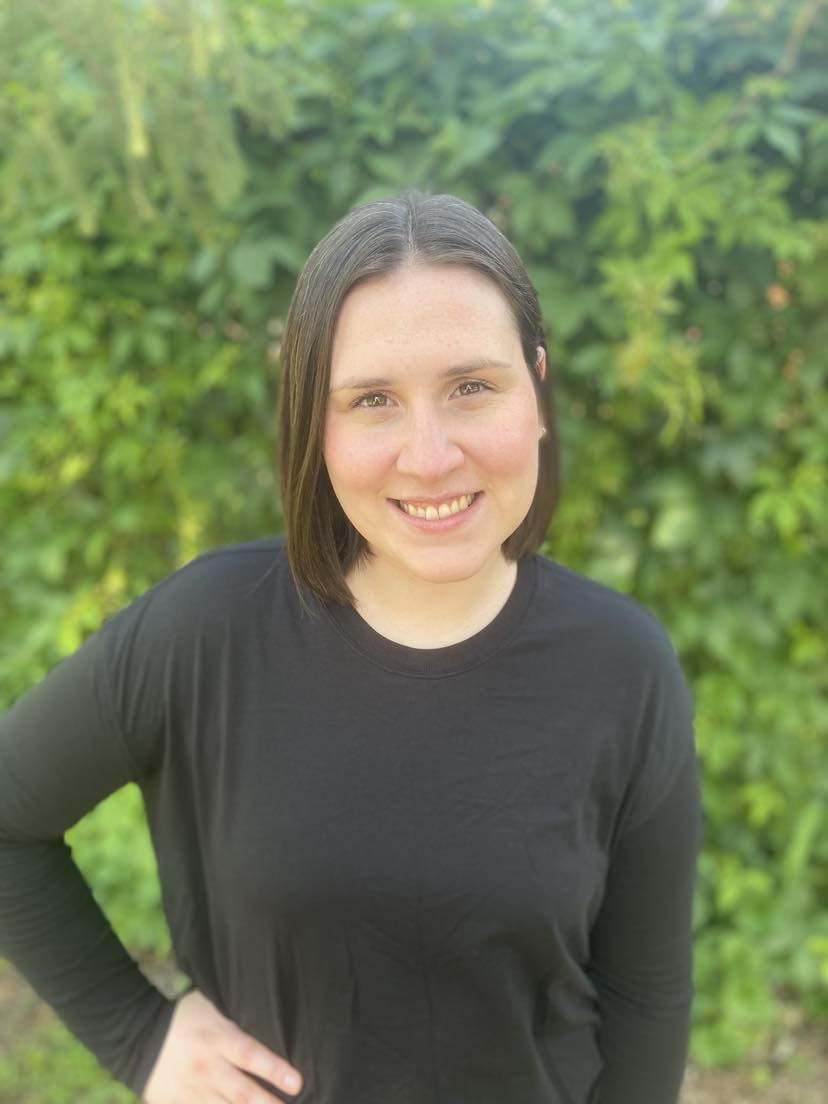
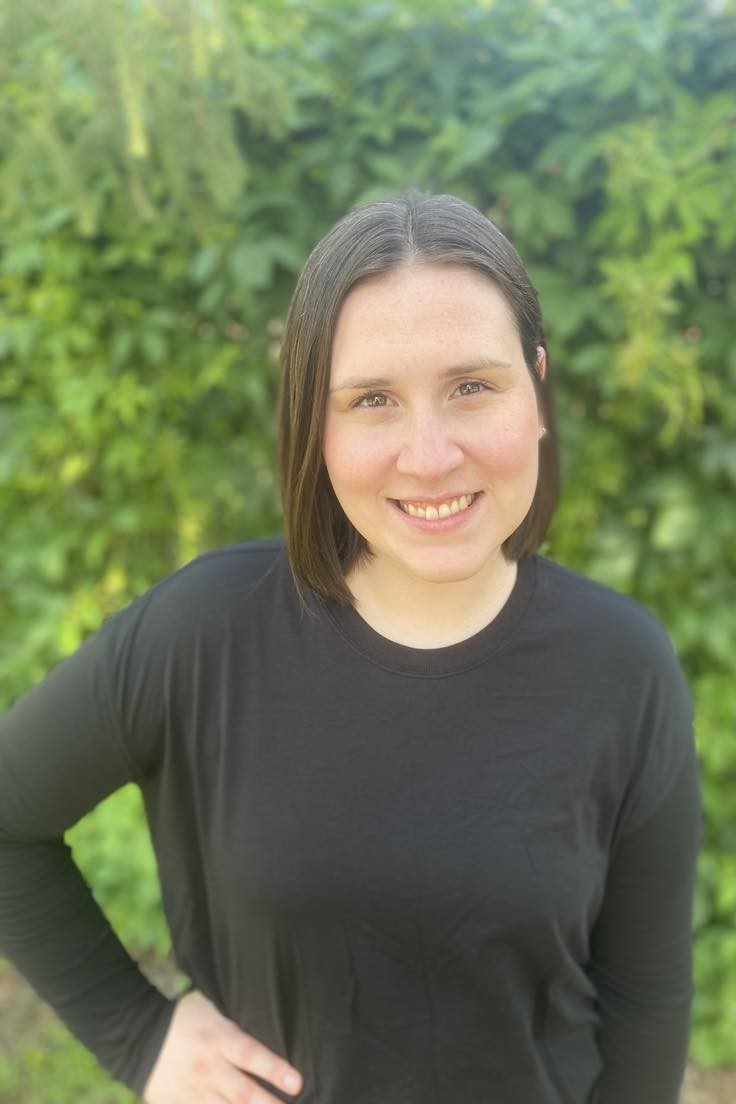
BC - made 'about' pictures all the same size

diff --git a/CSS/style.css b/CSS/style.css
@@ -74,7 +74,7 @@ a {
         float: right;
         display: block;
     }
-
+    
     /* topnav styles if the topnav has the "responsive" class - set when the user clicks on the hamburger menu*/
     .topnav.responsive {position: relative;}
     .topnav.responsive .icon {
@@ -394,7 +394,7 @@ table {
     font-weight: bold;
 }
 
- /*Project Page - Main Settings */ 
+/*Project Page - Main Settings */ 
 .pDash {
     max-width: 40%;
     float: right; 
@@ -455,8 +455,8 @@ iframe {
 }
 
 .static1 {
-   max-width:20%;
-   padding:40px;
+    max-width:20%;
+    padding:40px;
 }*/
 
 /* Project page margins */
@@ -495,7 +495,7 @@ iframe {
     display: flex;
     justify-content: space-evenly;
 }
-  
+
 .btn1 {
     border: none;
     outline: none;
@@ -506,15 +506,15 @@ iframe {
     cursor: pointer;
     margin: 20px auto;
 }
-  
+
 .btn:hover {
     background: #556471;
 }
-  
+
 .btn1:hover {
     background: #556471;
 }
-  
+
 .big-headings {
     background-color: #e3e4e4;
     /* Padding (there are a few options, saved here in case we change our minds later) */
@@ -561,7 +561,7 @@ p.project-page {
     height: auto;
     max-height: 525px;
     max-width: 350px;
-	border-radius: 50%
+    border-radius: 50%
 }
 
 .overlay {
@@ -607,12 +607,12 @@ p.project-page {
     max-width: 350px;
 }
 
-  .person-bio-img-with-text {
+.person-bio-img-with-text {
     position: relative;
     flex: 1;
     width: 100%;
 }  
-  
+
 
 /* METHODOLOGY PAGE */
 .image-center {

diff --git a/about.html b/about.html
@@ -52,7 +52,7 @@
     <!-- Image overlay of each team member  - Image overlay adapted from https://www.w3schools.com/howto/howto_css_image_overlay.asp -->
     <div id="about-container" class="flex-container">
         <div class="person-bio-img-with-text"> 
-            <img src="Images/AboutUs/amanda.jpg" alt="Avatar" class="image">
+            <img src="Images/AboutUs/LB.jpg" alt="Avatar" class="image">
             <div class="name-text">
                 <h4>Lucija Bralic</h4>
                 <i class="fa fa-envelope" style="font-size:25px"></i>
@@ -91,7 +91,7 @@
                     pursuing the GIS Applications Specialist Certificate in order to further her understanding of the natural world 
                     and how to encourage others to interact and engage with it. Throughout the project Becca was able to apply her
                     background knowledge and skills learnt in order to ensure the final product was something the public would 
-                    understand and the client would be able to utilize for years to come.  <br>
+                    understand and the client would be able to utilize for years to come. <br>
                 </div>
             </div>
         </div>
